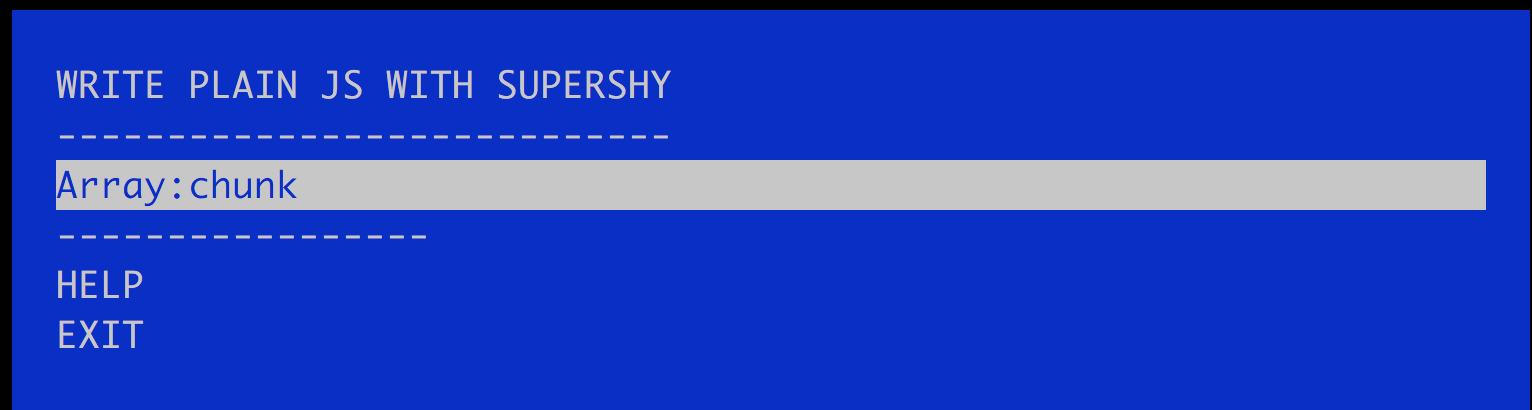
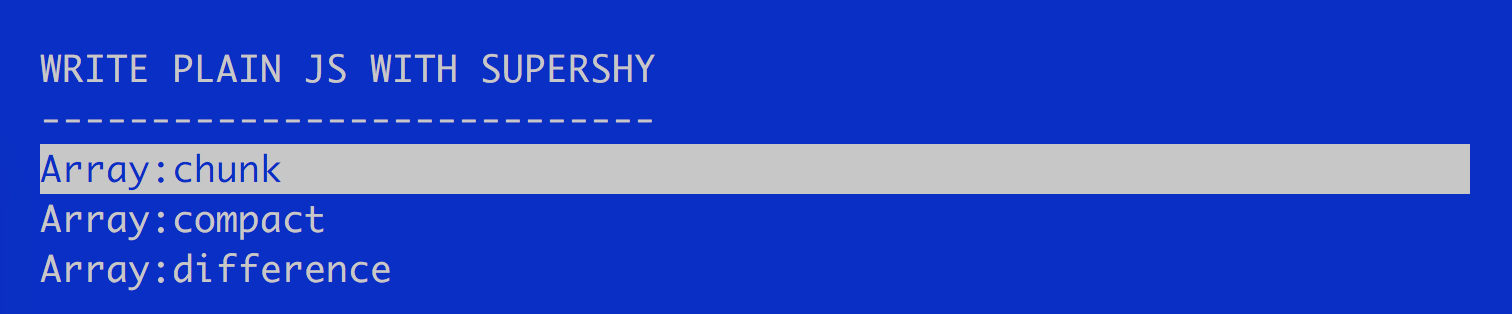
add difference

Changed region(s): [[0.0, 0.0, 1.0, 1.0]]

diff --git a/common/test.js b/common/test.js
@@ -22,9 +22,19 @@ describe('Array', function() {
         });
     });
 
-    test('compact', lodashLike)('应该返回返回过滤假值后的数组', () => {
+    test('compact', lodashLike)('应该返回过滤假值后的数组', () => {
         it("compact([0, 1, false, 2, '', 3])应该返回[1, 2, 3]", () => {
             assert.deepEqual(lodashLike.compact([0, 1, false, 2, '', 3]), [1, 2, 3]);
+        });
+    });
+
+    test('difference', lodashLike)('应该返回过滤后的数组', () => {
+        it("difference([1, 2, 3], [4, 2])应该返回[1, 3]", () => {
+        	
+            assert.deepEqual(lodashLike.difference([1, 2, 3], [4, 2]), [1, 3]);
+        });
+        it("difference([1, '2', 3], [4, 2])应该返回[1, '2', 3]", () => {
+            assert.deepEqual(lodashLike.difference([1, '2', 3], [4, 2]), [1, '2', 3]);
         });
     });
 });

diff --git a/util.js b/util.js
@@ -1,0 +1,29 @@
+module.exports.chunk = (array, size) => {
+    var newArr = [];
+    for (var i = 0; i < parseInt((array.length) / size); i++) {
+        newArr.push(array.slice(i * size, (i + 1) * size));
+    }
+    
+    if (array.length % size !== 0) {
+        newArr.push(array.slice(array.length - parseInt((array.length) / size)));
+    }
+    return newArr;
+}
+
+module.exports.compact = (array) => {
+    return array.filter((elem) => {
+        if (elem) {
+            return elem;
+        }
+    })
+}
+
+module.exports.difference = (array, arrayFilter) => {
+    let newArr = array.slice();
+    let inArray = (array, value) => {
+        return array.indexOf(value) !== -1;
+    }
+    return newArr.filter((elem) => {
+        return !inArray(arrayFilter, elem);
+    })
+}

diff --git a/Array:compact/index.js b/Array:compact/index.js
@@ -1,16 +1,7 @@
-var fs = require('fs');
-var common = require(__dirname + '/../common/common');
-var test = require(__dirname + '/../common/test-config');
+let commonIndex = require(__dirname + '/../common');
 
-
-module.exports.problem = function() {
-    return common('Array:compact').problemContent;
+module.exports = {
+    problem: commonIndex.problem('Array:compact'),
+    solution: commonIndex.solution('Array:compact'),
+    verify: commonIndex.verify
 }
-
-module.exports.solution = function() {
-    return common('Array:compact').solutionContent;
-}
-
-module.exports.verify = (args, cb) => {
-    test(__dirname + '/../common/test.js', common.adviceContent, cb);
-};

diff --git a/Array:chunk/index.js b/Array:chunk/index.js
@@ -1,16 +1,7 @@
-var fs = require('fs');
-var common = require(__dirname + '/../common/common');
-var test = require(__dirname + '/../common/test-config');
+let commonIndex = require(__dirname + '/../common');
 
-
-module.exports.problem = function() {
-    return common('Array:chunk').problemContent;
+module.exports = {
+    problem: commonIndex.problem('Array:compact'),
+    solution: commonIndex.solution('Array:compact'),
+    verify: commonIndex.verify
 }
-
-module.exports.solution = function() {
-    return common('Array:chunk').solutionContent;
-}
-
-module.exports.verify = (args, cb) => {
-    test(__dirname + '/../common/test.js', common.adviceContent, cb);
-};

diff --git a/common/index.js b/common/index.js
@@ -1,0 +1,16 @@
+var fs = require('fs');
+var common = require(__dirname + '/common');
+var test = require(__dirname + '/test-config');
+
+
+module.exports.problem = function(folder) {
+    return common(folder).problemContent;
+}
+
+module.exports.solution = function(folder) {
+    return common(folder).solutionContent;
+}
+
+module.exports.verify = (args, cb) => {
+    test(__dirname + '/test.js', common.adviceContent, cb);
+};

diff --git a/chunk.js b/chunk.js
@@ -1,0 +1,11 @@
+module.exports.chunk = (array, size) => {
+    var newArr = [];
+    for (var i = 0; i < parseInt((array.length) / size); i++) {
+        newArr.push(array.slice(i * size, (i + 1) * size));
+    }
+    
+    if (array.length % size !== 0) {
+        newArr.push(array.slice(array.length - parseInt((array.length) / size)));
+    }
+    return newArr;
+}

diff --git a/difference.js b/difference.js
@@ -1,0 +1,9 @@
+module.exports.difference = (array, arrayFilter) => {
+    let newArr = array.slice();
+    let inArray = (array, value) => {
+        return array.indexOf(value) !== -1;
+    }
+    return newArr.filter((elem) => {
+        return !inArray(arrayFilter, elem);
+    })
+}

diff --git a/Array:difference/index.js b/Array:difference/index.js
@@ -1,0 +1,7 @@
+let commonIndex = require(__dirname + '/../common');
+
+module.exports = {
+    problem: commonIndex.problem('Array:difference'),
+    solution: commonIndex.solution('Array:difference'),
+    verify: commonIndex.verify
+}

diff --git a/index.js b/index.js
@@ -8,7 +8,8 @@ const shop = adventure({
 
 const practices = [
     'Array:chunk',
-    'Array:compact'
+    'Array:compact',
+    'Array:difference'
 ];
 
 practices.forEach((practice) => {

diff --git a/compact.js b/compact.js
@@ -1,0 +1,7 @@
+module.exports.compact = (array) => {
+    return array.filter((elem) => {
+        if (elem) {
+            return elem;
+        }
+    })
+}

diff --git a/Array:difference/problem.md b/Array:difference/problem.md
@@ -1,0 +1,38 @@
+# 挑战
+
+> 来自lodash中文官网的[chunk](http://lodashjs.com/docs/#_chunkarray-size1)
+
+Creates an array of unique `array` values not included in the other provided arrays using [`SameValueZero`](http://ecma-international.org/ecma-262/6.0/#sec-samevaluezero) for equality comparisons.返回一个数组，此数组不包含另外数组中的值。
+
+#### 参数
+
+1. `array` *(Array)*: 需要过滤的数组
+2. `[values]` *(...Array)*: 数组需要排除掉的值
+
+#### 返回值
+
+*(Array)*: 返回过滤后的数组
+
+#### 例子
+
+```javascript
+_.difference([1, 2, 3], [4, 2]);
+// => [1, 3]
+_.difference([1, '2', 3], [4, 2]);
+// => [1, "2", 3]
+```
+
+### 完善下面代码并保存到difference.js中
+
+```javascript
+module.exports.difference = (array, arrayFilter) => {
+  //代码实现
+  
+  return ;//返回结果
+}
+```
+
+### 完成后请执行以下命令来验证：
+
+```learn-plain-js-with-supershy verify difference.js```
+

diff --git a/README.md b/README.md
@@ -6,11 +6,24 @@ learn-plain-js-with-supershy是交互式的练习工具，而[*Lodash*](https://
 
 ```javascript
 npm install learn-plain-js-with-supershy -g
-npm install mocha -g
 ```
 
 当我们运行```learn-plain-js-with-supershy```会出现
 
 ![](https://raw.githubusercontent.com/little-white/learn-plain-js-with-supershy/master/screenshot.png)
 
-上下键选择好后点击回车就出现了题目。
+按q退出此界面。
+
+上下键选择好后点击回车就出现了题目如下：
+
+![](problem.png)
+
+当完成了功能后，可以验证代码的正确性（使用了mocha来测试代码），当通过后显示如下：
+
+![](success.png)
+
+这只是测试一个功能，当然我们也可以把所有的功能写到一个文件里，通过后显示如下：
+
+![](success-all.png)
+
+让我们开始攻关吧！
